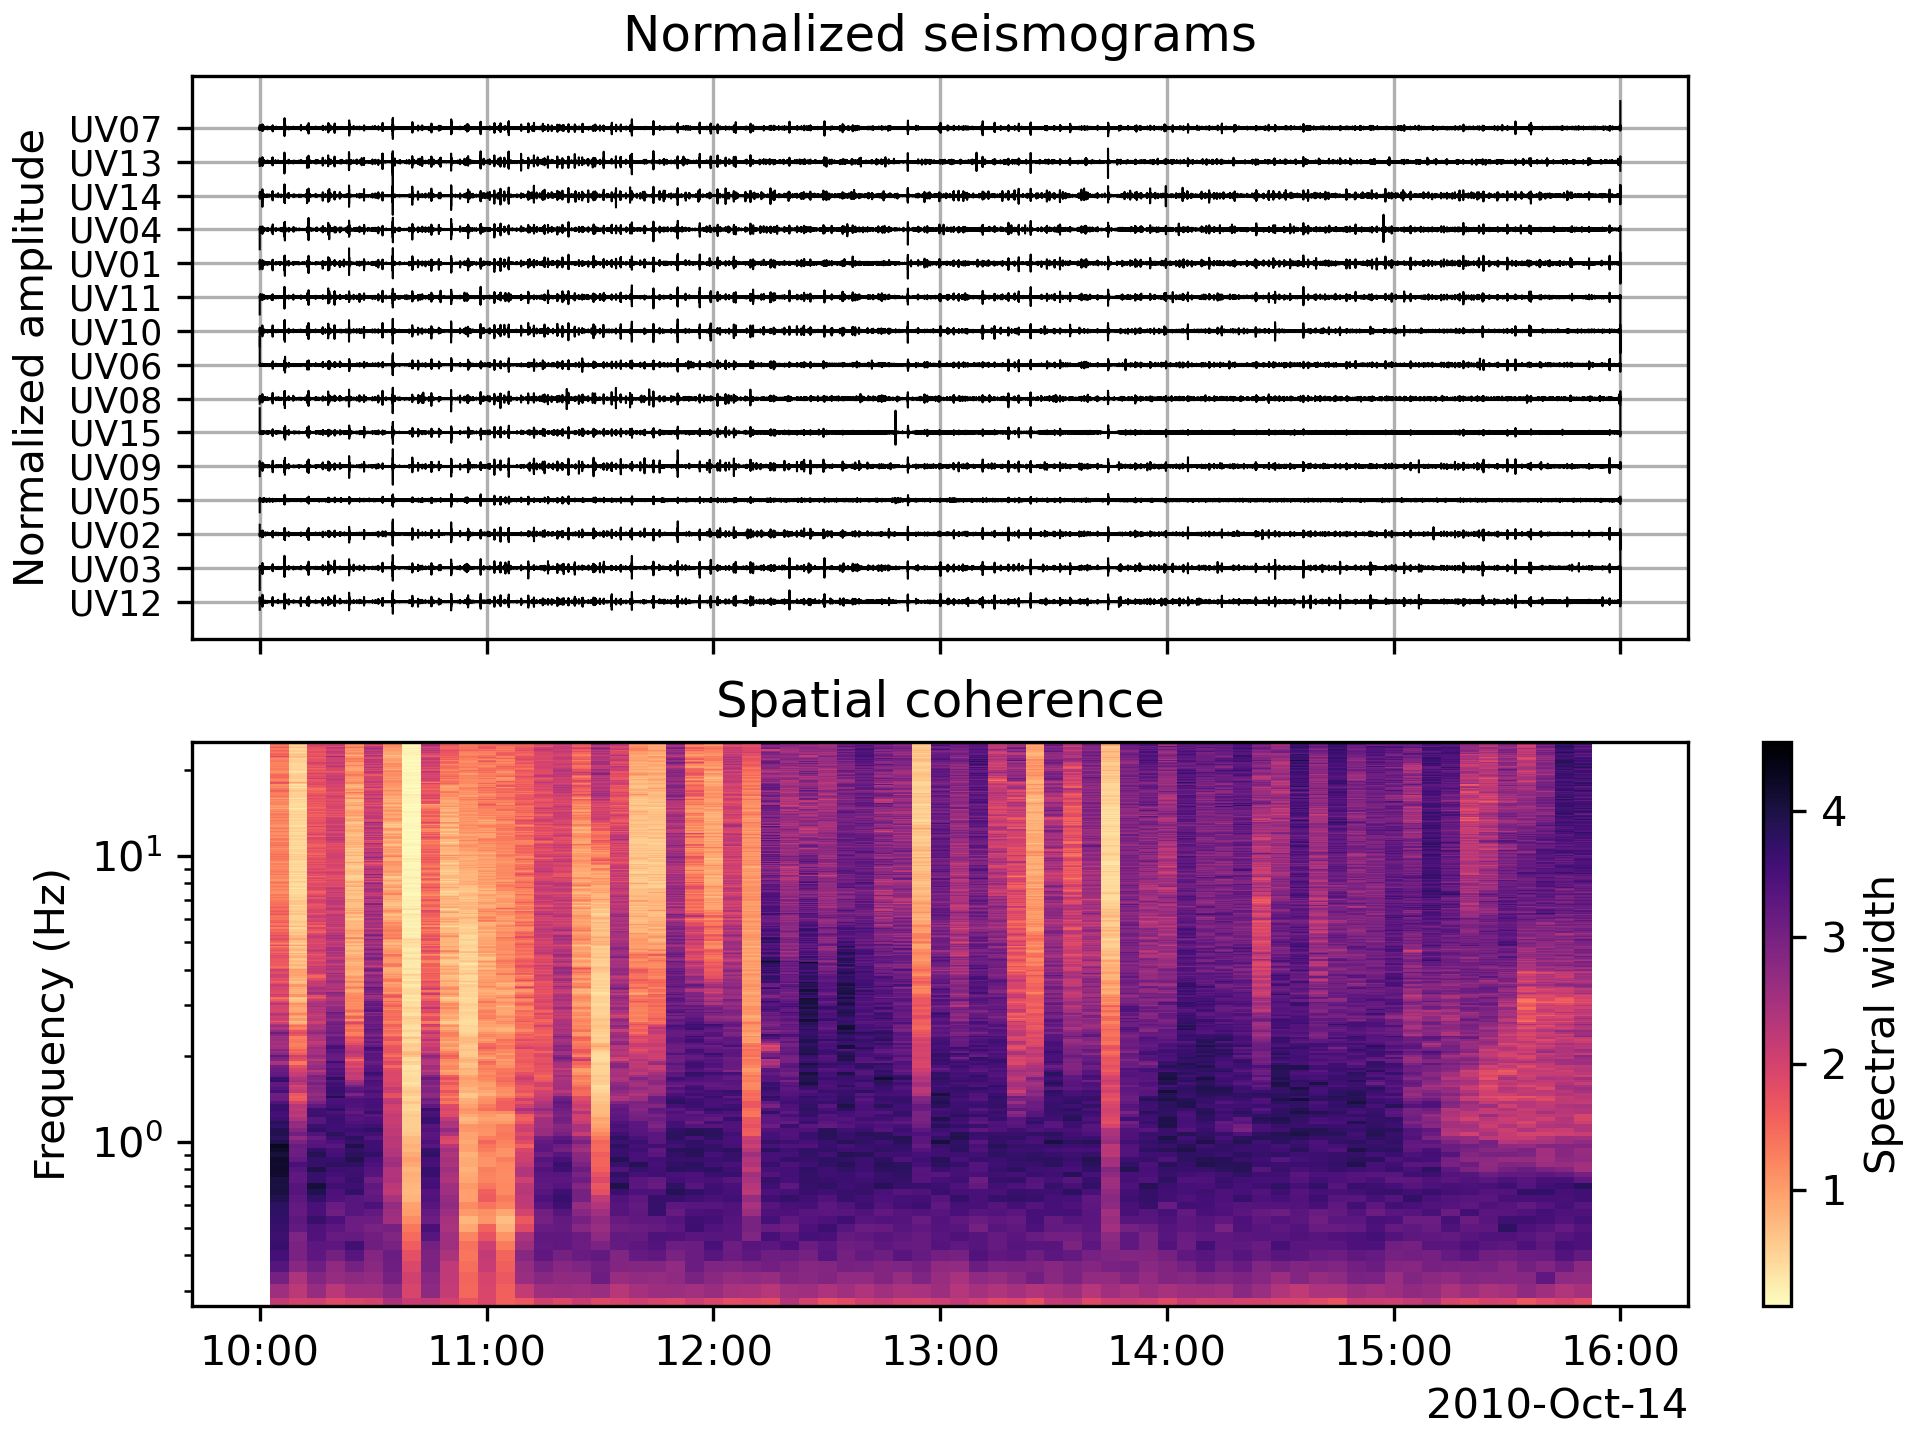
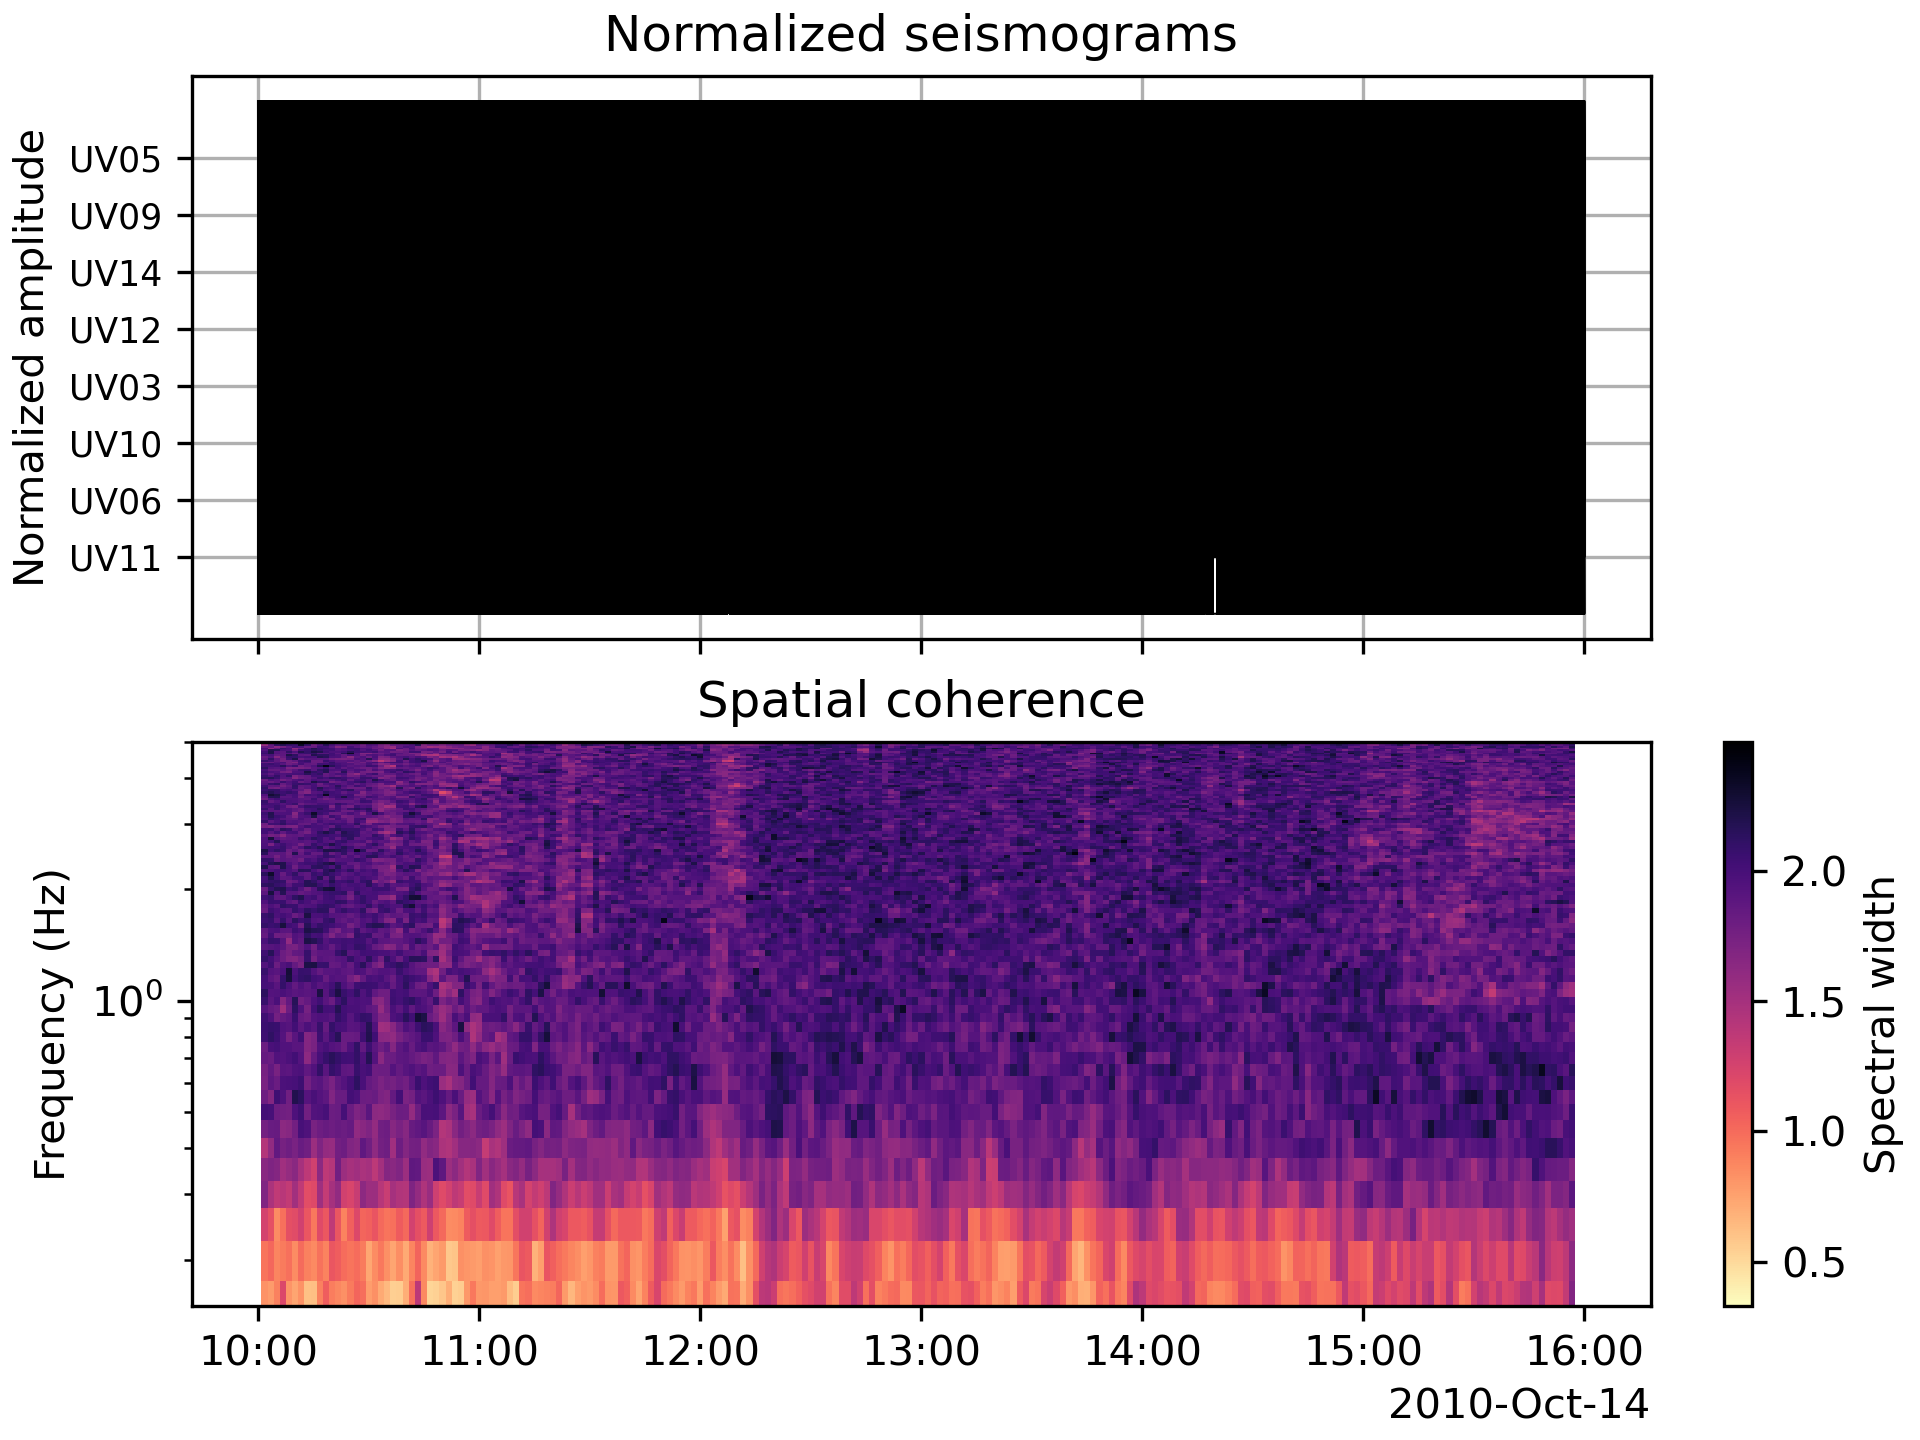
Maxking experiments

diff --git a/examples/plot_example_b1_coherence.py b/examples/plot_example_b1_coherence.py
@@ -30,6 +30,7 @@ import covseisnet as csn
 
 # Read example stream
 stream = csn.read("../data/unvervolc_sample.mseed")
+stream = stream[::2]
 # stream = stream.select(station="UV1*")
 # stream.cut("2010-10-14 15:00", "2010-10-14 16:00")
 
@@ -38,11 +39,12 @@ stream = csn.read("../data/unvervolc_sample.mseed")
 channels = [trace.stats.channel for trace in stream]
 
 # Pre-process stream
+stream.decimate(5)
 stream.detrend("linear")
 stream.filter("highpass", freq=0.5)
 # stream.taper(max_percentage=0.05)
-# stream.whiten(window_duration_sec=500)
-# stream.normalize(smooth_length=11)
+stream.whiten(window_duration_sec=500, smooth_length=11)
+stream.normalize(smooth_length=101)
 
 # %%
 # Covariance matrix
@@ -51,7 +53,7 @@ stream.filter("highpass", freq=0.5)
 # The covariance matrix is calculated using the method :func:`~covseisnet.covariance.calculate_covariance_matrix`. The method returns the times, frequencies, and covariances of the covariance matrix. Among the parameters of the method, the window duration and the number of windows are important to consider. The window duration is the length of the Fourier estimation window in seconds, and the number of windows is the number of windows to average to estimate the covariance matrix. We can then visualize the covariance matrix at a given time and frequency, and its corresponding eigenvalues.
 
 times, frequencies, covariances = csn.calculate_covariance_matrix(
-    stream, window_duration_sec=30, average=40
+    stream, window_duration_sec=20, average=20
 )
 
 
@@ -79,9 +81,7 @@ print(f"Elapsed time coherence: {time.time() - tic:.2f} s")
 
 # Show
 # sphinx_gallery_thumbnail_number = 2
-csn.plot.stream_and_coherence(
-    stream, times, frequencies, coherence, f_min=0.25
-)
+csn.plot.stream_and_coherence(stream, times, frequencies, coherence, f_min=0.1)
 
 
 # %%

diff --git a/covseisnet/covariance.py b/covseisnet/covariance.py
@@ -388,7 +388,7 @@ def calculate_covariance_matrix(
         # Slice
         selection = slice(index, index + average)
         spectra_slice = spectra[..., selection]
-        spectra_slice /= np.mean(np.abs(spectra_slice), axis=-1, keepdims=True)
+        # spectra_slice /= np.mean(np.abs(spectra_slice), axis=-1, keepdims=True)
         covariances[i] = np.einsum(
             "ift,jft -> fij", spectra_slice, np.conj(spectra_slice)
         )
